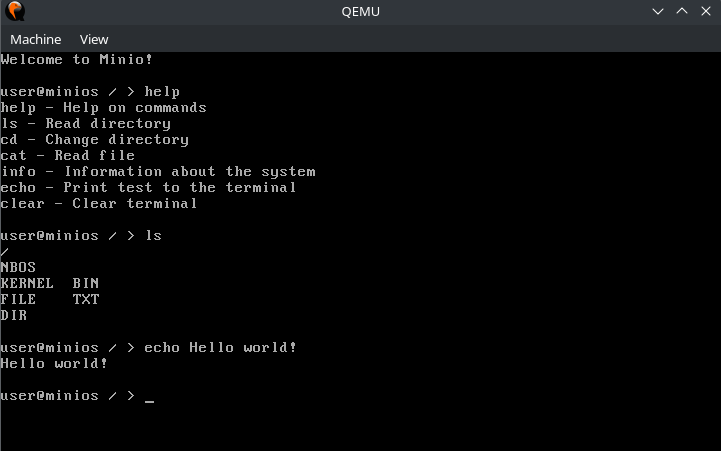
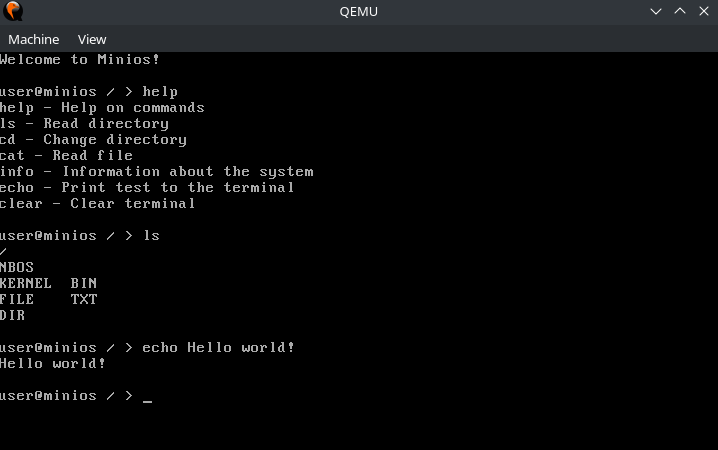
fix

diff --git a/src/kernel/terminal.c b/src/kernel/terminal.c
@@ -192,7 +192,7 @@ void terminal_main(DISK disk) {
 
 	tty_clear();
 
-	printf("Welcome to Minio!\n\n");
+	printf("Welcome to Minios!\n\n");
 
 	while (true) {
 		printf("%s %s > ", PROMPT, g_current_dir);

diff --git a/src/ivt.h b/src/ivt.h
@@ -1,0 +1,12 @@
+#pragma once
+
+#include <stdint.h>
+
+typedef struct {
+	uint16_t offset;
+	uint16_t segment;
+} IVT_Entry;
+
+typedef void (*interrupt_handler_t)(void);
+
+void IVT_Init();
